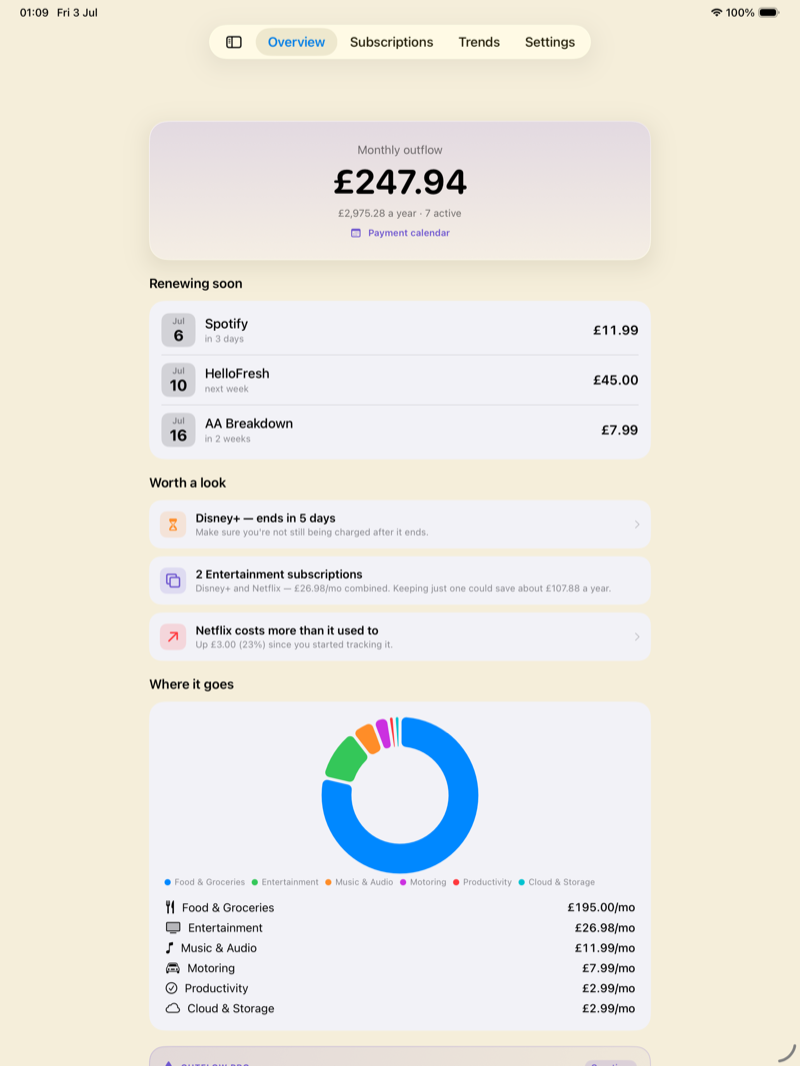
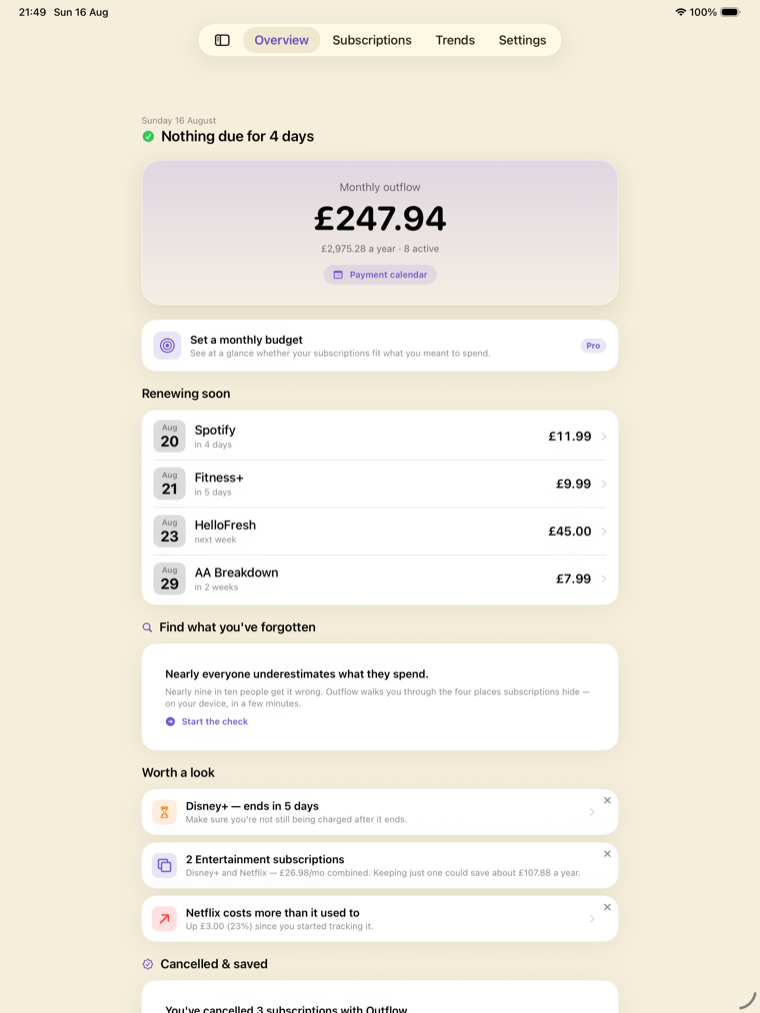
Outflow: replace the stale low-res iPad image; refresh sitemap lastmods
The iPad screenshot was 800x1066 but displayed at 760 CSS px, so on any Retina
screen it rendered at roughly half the pixels it needed — hence the blur. It was
also from 3 July: it showed the *old blue* accent that 3.8 replaced with brand
purple, and predated the forgotten-subscription check entirely. We were
advertising a version of the app that no longer exists, badly.

Replaced with a fresh capture from the current build on iPad Pro 13" (2064x2752
native), served responsively:
  - ipad.png     760w  (1x, keeps the existing indexed URL valid and current)
  - ipad@2x.jpg  1520w (2x for Retina, 284KB — the equivalent PNG was 1.28MB,
                        which is a real Core Web Vitals cost for no visible gain
                        on a downscaled UI screenshot)
Plus width/height to reserve layout space, sizes for correct selection on
phones, and decoding=async.

Worth noting the first recapture came out with a £257.93 header above NT$11.99
rows — the simulator's seed locale and the stored base currency disagreeing.
Recaptured with an explicit en_GB locale and the stored currency cleared.

Sitemap: /outflow/ and /vs/bobby/ were still advertising July lastmods despite
being edited today. A lastmod that never moves is a signal Google learns to
ignore.

diff --git a/outflow/index.html b/outflow/index.html
@@ -887,8 +887,10 @@ h2.of-h2 {
 
     <figure style="margin:0 0 60px">
       <img src="/outflow/ss/ipad.png"
-           alt="Outflow on iPad — overview with monthly outflow, upcoming renewals, insights and category breakdown in a big-screen layout"
-           width="800" height="1067" loading="lazy"
+           srcset="/outflow/ss/ipad.png 760w, /outflow/ss/ipad@2x.jpg 1520w"
+           sizes="(max-width: 820px) calc(100vw - 40px), 760px"
+           alt="Outflow on iPad — monthly outflow, upcoming renewals, the forgotten-subscription check and category breakdown in a big-screen layout"
+           width="760" height="1013" loading="lazy" decoding="async"
            style="width:100%;max-width:760px;display:block;margin:0 auto;border-radius:22px;box-shadow:0 2px 6px rgba(30,10,70,.1), 0 14px 36px rgba(30,10,70,.14)">
       <figcaption style="margin-top:10px;font-size:12.5px;font-weight:650;color:var(--muted);text-align:center">Outflow on iPad Pro — same privacy, more room.</figcaption>
     </figure>
